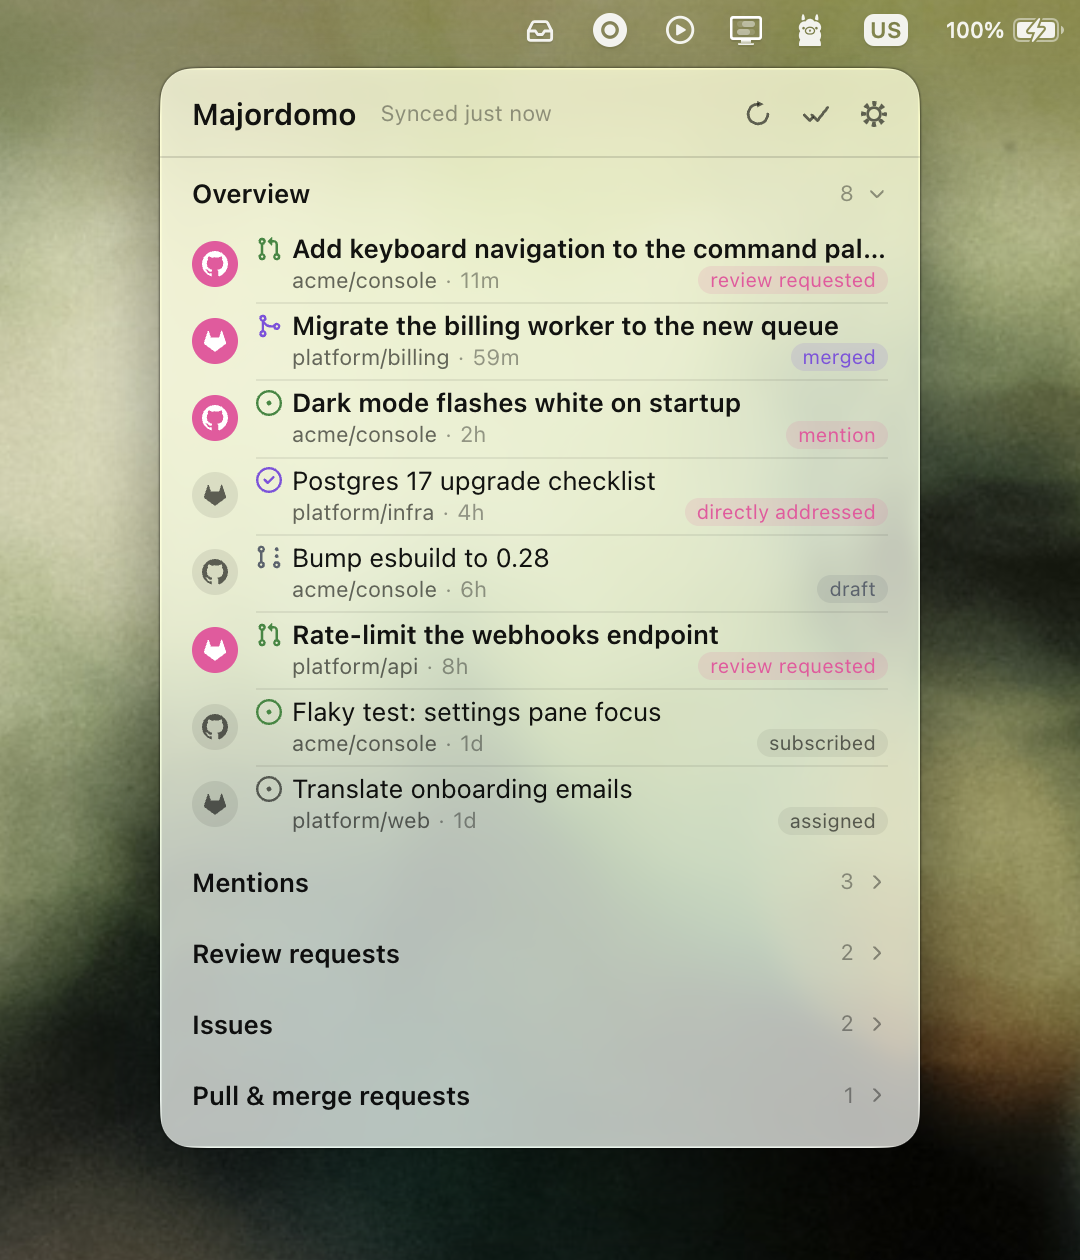
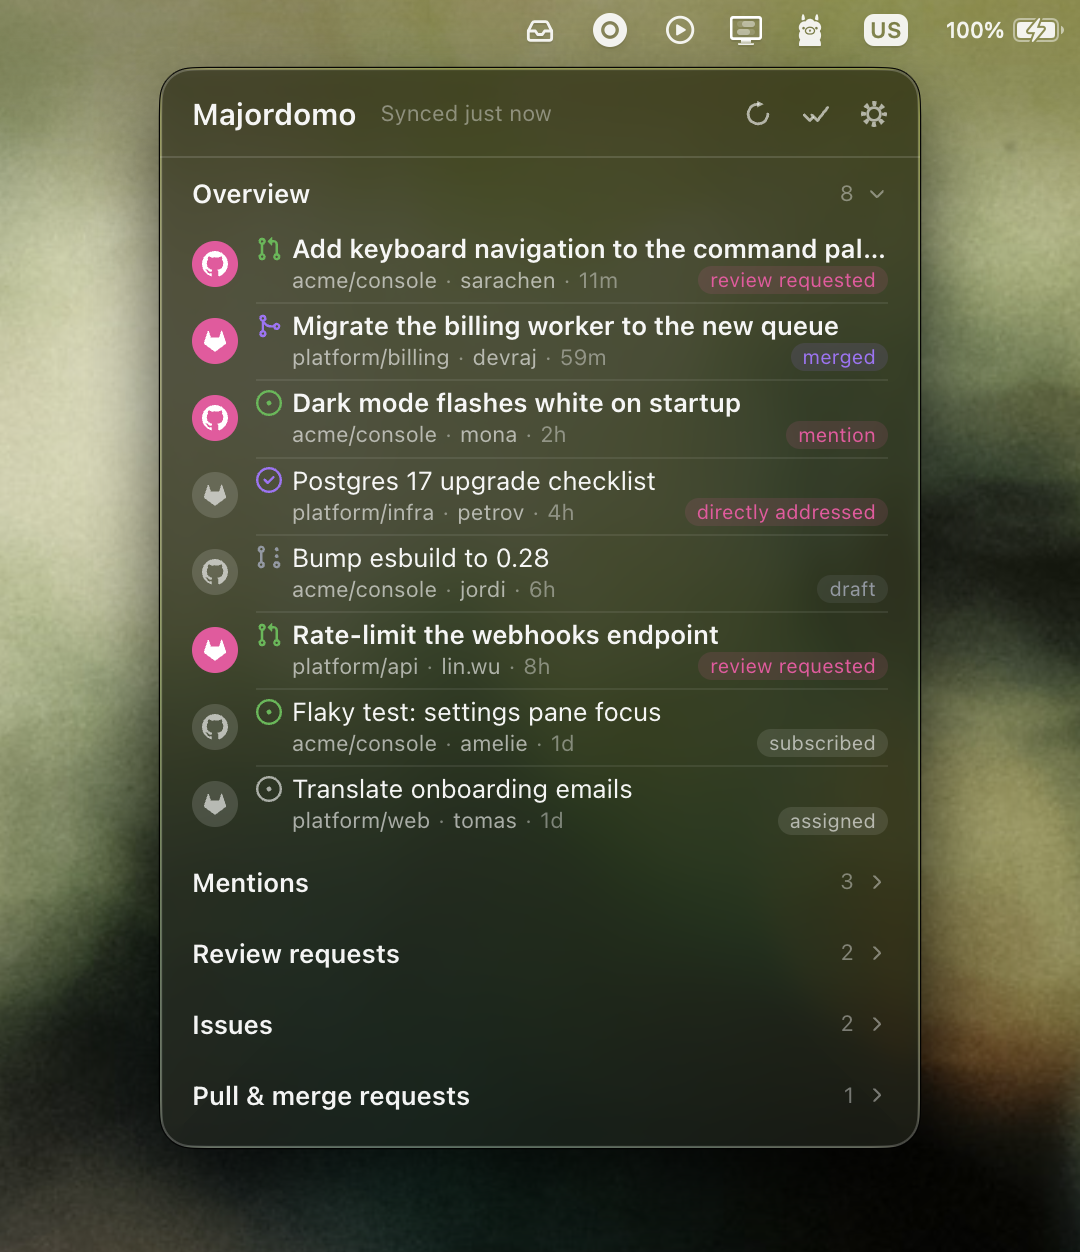
fix: hovering a truncated repo or author reveals the full text

diff --git a/src/ui/styles.css b/src/ui/styles.css
@@ -532,6 +532,13 @@ button:focus-visible,
   white-space: nowrap;
 }
 
+/* Hovering a truncated part of the meta line makes it fully readable: it
+   stops yielding space, so its siblings shrink instead. */
+.row-repo:hover,
+.row-author:hover {
+  flex-shrink: 0;
+}
+
 .capsule {
   flex: none;
   font-size: 10px;
